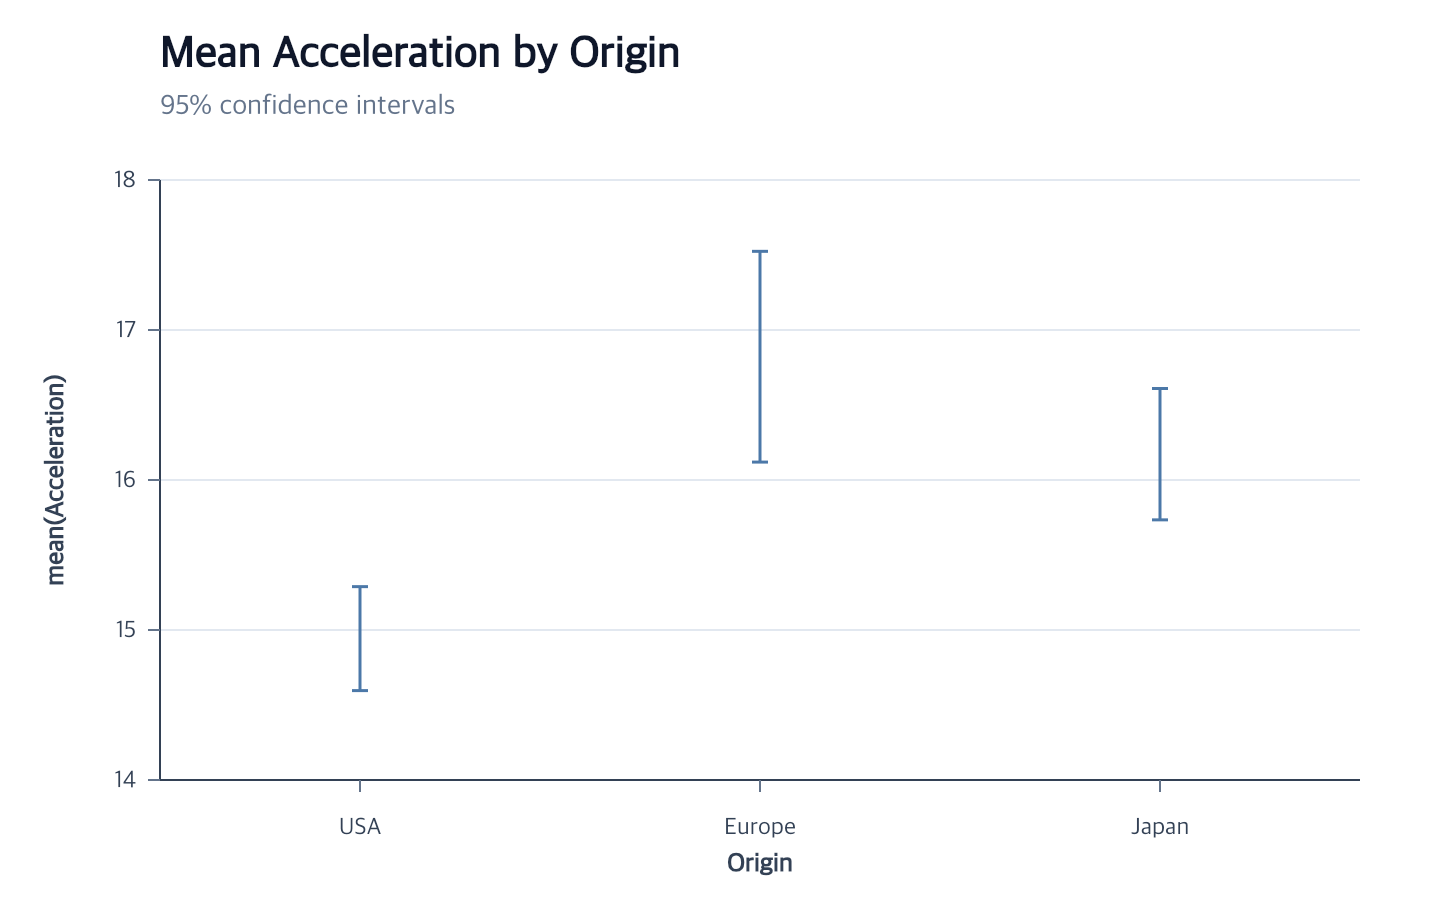
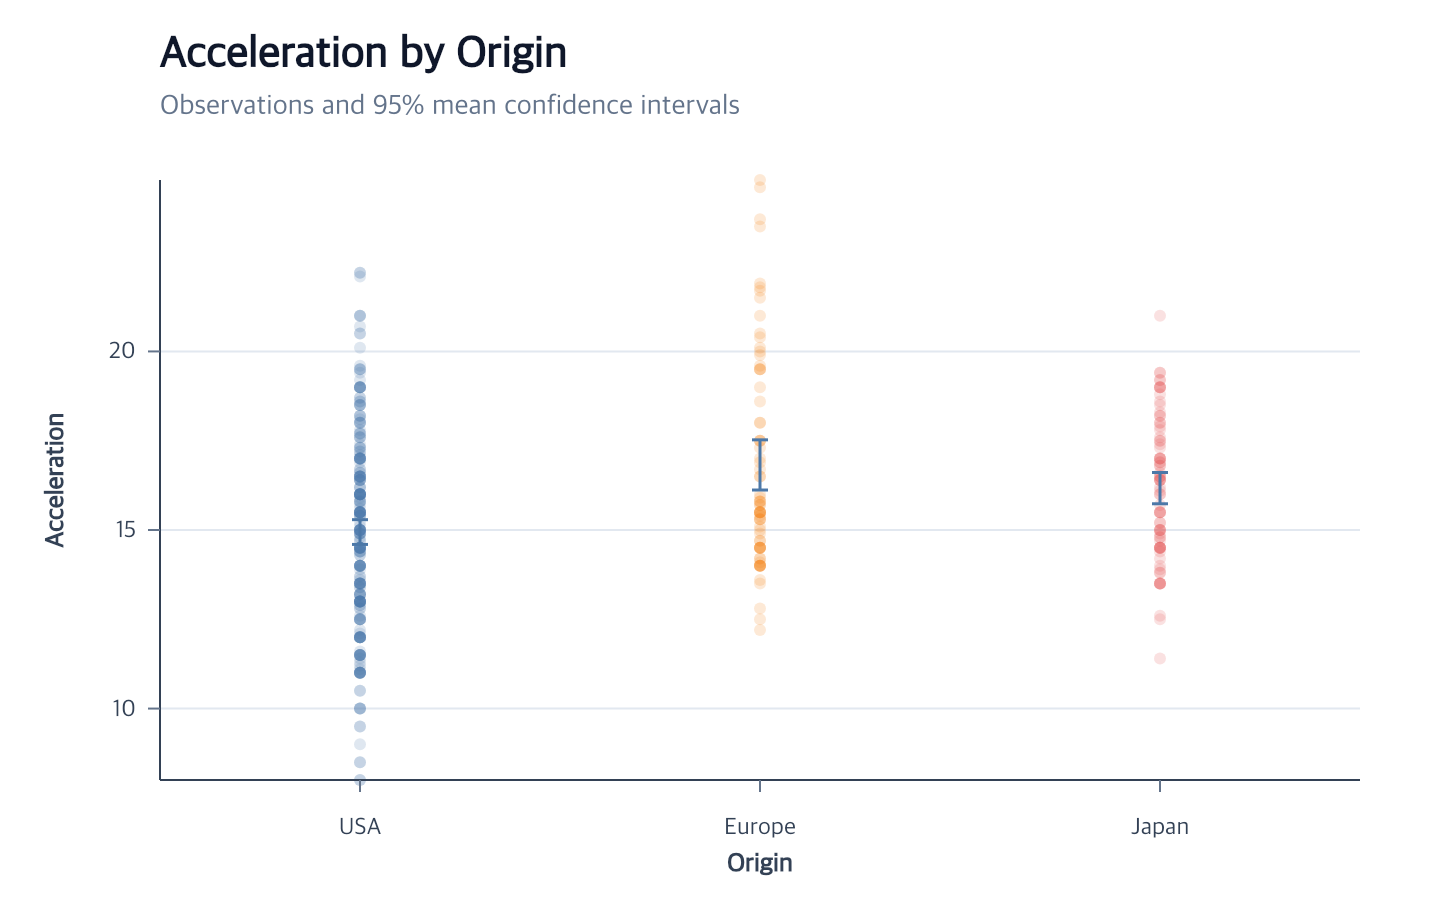
curate documentation gallery

diff --git a/examples/registry.js b/examples/registry.js
@@ -1,6 +1,6 @@
 import { createCarsBoxPlot } from "./cars-box-plot/program.js";
 import { createCarsDensityArea } from "./cars-density-area/program.js";
-import { createCarsErrorBar } from "./cars-error-bar/program.js";
+import { createCarsErrorBarOverlay } from "./cars-error-bar/program.js";
 import { createCarsHistogram } from "./cars-histogram/program.js";
 import { createCarsLineChart } from "./cars-line-chart/program.js";
 import { createCarsRegressionScatterplot } from
@@ -10,7 +10,8 @@ import { createMatchingPopulationColorBars } from
   "./gapminder-continuous-color-bars/program.js";
 import { createGapminderQuantizeColorScale } from
   "./gapminder-discretized-color-scales/program.js";
-import { createGapminderErrorBand } from "./gapminder-error-band/program.js";
+import { createGapminderCurvedBoundaryErrorBand } from
+  "./gapminder-error-band/program.js";
 import { createGapminderBandPointChart } from
   "./gapminder-temporal-discrete-scales/program.js";
 import { createGapminderTransformedScaleScatterplot } from
@@ -96,7 +97,7 @@ export const PUBLIC_CHARTS = Object.freeze([
     data: "cars",
     width: 720,
     height: 460,
-    createProgram: createCarsErrorBar,
+    createProgram: createCarsErrorBarOverlay,
     docsGroup: "charts",
     browser: { path: "cars-error-bar/", canvas: "#chart" }
   }),
@@ -114,7 +115,7 @@ export const PUBLIC_CHARTS = Object.freeze([
     data: "gapminder",
     width: 760,
     height: 480,
-    createProgram: createGapminderErrorBand,
+    createProgram: createGapminderCurvedBoundaryErrorBand,
     docsGroup: "charts",
     browser: { path: "gapminder-error-band/", canvas: "#chart" }
   }),

diff --git a/docs/assets/main.scss b/docs/assets/main.scss
@@ -444,6 +444,13 @@ summary:focus-visible {
   border-radius: 0.65rem;
 }
 
+.docs-chart-gallery article > p {
+  margin: 0;
+  color: var(--docs-muted);
+  font-size: 0.84rem;
+  line-height: 1.45;
+}
+
 .docs-chart-gallery article:focus-within,
 .docs-chart-gallery article:hover {
   border-color: #93c5fd;
@@ -457,27 +464,28 @@ summary:focus-visible {
   border-radius: 0.4rem;
 }
 
-.docs-chart-gallery__image::after {
-  position: absolute;
-  right: 0.45rem;
-  bottom: 0.45rem;
-  padding: 0.2rem 0.4rem;
-  color: #fff;
-  border-radius: 0.25rem;
-  background: rgba(15, 23, 42, 0.78);
-  content: "Full size";
-  font-size: 0.68rem;
-  opacity: 0;
-}
-
-.docs-chart-gallery__image:focus::after,
-.docs-chart-gallery__image:hover::after {
-  opacity: 1;
-}
-
 .docs-chart-gallery__title {
   color: #0f172a;
   font-weight: 600;
+}
+
+.docs-chart-gallery__actions {
+  display: flex;
+  flex-wrap: wrap;
+  gap: 0.3rem;
+}
+
+.docs-chart-gallery__actions code {
+  padding: 0.12rem 0.35rem;
+  border-radius: 999px;
+  font-size: 0.7rem;
+}
+
+.docs-chart-gallery__full-size {
+  align-self: flex-start;
+  margin-top: auto;
+  color: var(--docs-muted);
+  font-size: 0.76rem;
 }
 
 .docs-chart-gallery img {

diff --git a/examples/gapminder-error-band/main.js b/examples/gapminder-error-band/main.js
@@ -1,14 +1,14 @@
 import { render } from "../../src/index.js";
-import { createGapminderErrorBand } from "./program.js";
+import { createGapminderCurvedBoundaryErrorBand } from "./program.js";
 
 const response = await fetch("../../data/gapminder.json");
 if (!response.ok) {
   throw new Error(`Failed to load gapminder data: ${response.status}`);
 }
 const gapminder = await response.json();
-const program = createGapminderErrorBand(gapminder);
+const program = createGapminderCurvedBoundaryErrorBand(gapminder);
 
 const canvas = document.querySelector("#chart");
 render(program, canvas.getContext("2d"));
 document.querySelector("#status").textContent =
-  `Mean life expectancy and 95% confidence intervals from ${gapminder.length} rows`;
+  `Bounded 95% confidence intervals from ${gapminder.length} rows`;

diff --git a/examples/cars-error-bar/main.js b/examples/cars-error-bar/main.js
@@ -1,12 +1,12 @@
 import { render } from "../../src/index.js";
-import { createCarsErrorBar } from "./program.js";
+import { createCarsErrorBarOverlay } from "./program.js";
 
 const response = await fetch("../../data/cars.json");
 if (!response.ok) throw new Error(`Failed to load cars: ${response.status}`);
 const cars = await response.json();
-const program = createCarsErrorBar(cars);
+const program = createCarsErrorBarOverlay(cars);
 
 const canvas = document.querySelector("#chart");
 render(program, canvas.getContext("2d"));
 document.querySelector("#status").textContent =
-  `95% mean confidence intervals from ${cars.length} cars`;
+  `Observations and 95% mean confidence intervals from ${cars.length} cars`;

diff --git a/test/docs/documentation.test.js b/test/docs/documentation.test.js
@@ -192,11 +192,15 @@ test("keeps tutorial action flows aligned with public examples", () => {
       "return chart()"
     ],
     ["density-area", "examples/cars-density-area/program.js", "return chart()"],
-    ["error-bar", "examples/cars-error-bar/program.js", "return chart()"],
+    [
+      "error-bar",
+      "examples/cars-error-bar/program.js",
+      "export function createCarsErrorBarOverlay"
+    ],
     [
       "error-band",
       "examples/gapminder-error-band/program.js",
-      "return chart()"
+      "function createCurvedBoundaryErrorBand"
     ]
   ];
 

diff --git a/docs/index.md b/docs/index.md
@@ -30,62 +30,100 @@ The main, extension, and PNG entry points include TypeScript declarations.
   </a>
 </div>
 
-## Choose a chart
+## Core charts
+
+Start with a complete chart whose data relationship matches the question you
+want to answer.
 
 <div class="docs-chart-gallery">
   <article>
-    <a class="docs-chart-gallery__image" href="./assets/images/cars-scatterplot.png" aria-label="Open the full-size cars scatterplot">
+    <a class="docs-chart-gallery__image" href="./tutorials/scatterplot/" aria-label="Build the cars scatterplot">
       <img src="./assets/images/cars-scatterplot.png" alt="Cars scatterplot" width="1280" height="800" loading="eager" fetchpriority="high">
     </a>
     <a class="docs-chart-gallery__title" href="./tutorials/scatterplot/">Scatterplot</a>
+    <p>Compare two quantitative fields and encode a category with color.</p>
+    <span class="docs-chart-gallery__actions"><code>createPointMark</code> <code>encodeX</code> <code>encodeY</code></span>
+    <a class="docs-chart-gallery__full-size" href="./assets/images/cars-scatterplot.png">View full size</a>
   </article>
   <article>
-    <a class="docs-chart-gallery__image" href="./assets/images/cars-line-chart.png" aria-label="Open the full-size aggregate line chart">
+    <a class="docs-chart-gallery__image" href="./tutorials/line-chart/" aria-label="Build the aggregate line chart">
       <img src="./assets/images/cars-line-chart.png" alt="Cars aggregate line chart" width="1440" height="920" loading="lazy">
     </a>
     <a class="docs-chart-gallery__title" href="./tutorials/line-chart/">Line chart</a>
+    <p>Aggregate values over time and split the result into series.</p>
+    <span class="docs-chart-gallery__actions"><code>createLineMark</code> <code>encodeGroup</code></span>
+    <a class="docs-chart-gallery__full-size" href="./assets/images/cars-line-chart.png">View full size</a>
   </article>
   <article>
-    <a class="docs-chart-gallery__image" href="./assets/images/cars-histogram.png" aria-label="Open the full-size stacked histogram">
+    <a class="docs-chart-gallery__image" href="./tutorials/histogram/" aria-label="Build the stacked histogram">
       <img src="./assets/images/cars-histogram.png" alt="Cars stacked histogram" width="864" height="920" loading="lazy">
     </a>
     <a class="docs-chart-gallery__title" href="./tutorials/histogram/">Histogram</a>
+    <p>Bin a quantitative field and count category partitions.</p>
+    <span class="docs-chart-gallery__actions"><code>createBarMark</code> <code>encodeHistogram</code></span>
+    <a class="docs-chart-gallery__full-size" href="./assets/images/cars-histogram.png">View full size</a>
   </article>
   <article>
-    <a class="docs-chart-gallery__image" href="./assets/images/jobs-grouped-bar.png" aria-label="Open the full-size grouped bar chart">
+    <a class="docs-chart-gallery__image" href="./tutorials/grouped-bar/" aria-label="Build the grouped bar chart">
       <img src="./assets/images/jobs-grouped-bar.png" alt="Jobs grouped bar example" width="1440" height="920" loading="lazy">
     </a>
     <a class="docs-chart-gallery__title" href="./tutorials/grouped-bar/">Bar chart</a>
+    <p>Aggregate ordinal categories and arrange nominal groups side by side.</p>
+    <span class="docs-chart-gallery__actions"><code>createBarMark</code> <code>encodeColor</code></span>
+    <a class="docs-chart-gallery__full-size" href="./assets/images/jobs-grouped-bar.png">View full size</a>
   </article>
   <article>
-    <a class="docs-chart-gallery__image" href="./assets/images/cars-regression-scatterplot.png" aria-label="Open the full-size regression scatterplot">
-      <img src="./assets/images/cars-regression-scatterplot.png" alt="Cars regression scatterplot with confidence bands" width="1520" height="960" loading="lazy">
-    </a>
-    <a class="docs-chart-gallery__title" href="./tutorials/regression-scatterplot/">Regression scatterplot</a>
-  </article>
-  <article>
-    <a class="docs-chart-gallery__image" href="./assets/images/cars-density-area.png" aria-label="Open the full-size density area chart">
+    <a class="docs-chart-gallery__image" href="./tutorials/density-area/" aria-label="Build the density area chart">
       <img src="./assets/images/cars-density-area.png" alt="Cars density area chart" width="1440" height="1000" loading="lazy">
     </a>
     <a class="docs-chart-gallery__title" href="./tutorials/density-area/">Density area</a>
+    <p>Estimate grouped distributions and draw baseline-closed areas.</p>
+    <span class="docs-chart-gallery__actions"><code>createAreaMark</code> <code>encodeDensity</code></span>
+    <a class="docs-chart-gallery__full-size" href="./assets/images/cars-density-area.png">View full size</a>
+  </article>
+</div>
+
+## Statistical and layered charts
+
+These examples compose ordinary marks and derived data into higher-level
+statistical views.
+
+<div class="docs-chart-gallery docs-chart-gallery--secondary">
+  <article>
+    <a class="docs-chart-gallery__image" href="./tutorials/regression-scatterplot/" aria-label="Build the regression scatterplot">
+      <img src="./assets/images/cars-regression-scatterplot.png" alt="Cars regression scatterplot with confidence bands" width="1520" height="960" loading="lazy">
+    </a>
+    <a class="docs-chart-gallery__title" href="./tutorials/regression-scatterplot/">Regression scatterplot</a>
+    <p>Layer observations, grouped fits, and confidence bands.</p>
+    <span class="docs-chart-gallery__actions"><code>createRegression</code></span>
+    <a class="docs-chart-gallery__full-size" href="./assets/images/cars-regression-scatterplot.png">View full size</a>
   </article>
   <article>
-    <a class="docs-chart-gallery__image" href="./assets/images/cars-error-bar.png" aria-label="Open the full-size error-bar chart">
-      <img src="./assets/images/cars-error-bar.png" alt="Mean acceleration by origin with 95% confidence intervals" width="1440" height="920" loading="lazy">
+    <a class="docs-chart-gallery__image" href="./tutorials/error-bar/" aria-label="Build the error-bar overlay">
+      <img src="./assets/images/cars-error-bar.png" alt="Car observations with grouped mean confidence intervals" width="1440" height="920" loading="lazy">
     </a>
     <a class="docs-chart-gallery__title" href="./tutorials/error-bar/">Error bar</a>
+    <p>Keep observations visible while summarizing group uncertainty.</p>
+    <span class="docs-chart-gallery__actions"><code>createErrorBar</code></span>
+    <a class="docs-chart-gallery__full-size" href="./assets/images/cars-error-bar.png">View full size</a>
   </article>
   <article>
-    <a class="docs-chart-gallery__image" href="./assets/images/cars-box-plot.png" aria-label="Open the full-size box plot">
+    <a class="docs-chart-gallery__image" href="./api/box-plots/" aria-label="Learn how to build the box plot">
       <img src="./assets/images/cars-box-plot.png" alt="Fuel economy distribution by origin as a Tukey box plot" width="720" height="920" loading="lazy">
     </a>
     <a class="docs-chart-gallery__title" href="./api/box-plots/">Box plot</a>
+    <p>Compose quartiles, whiskers, medians, and outlier points.</p>
+    <span class="docs-chart-gallery__actions"><code>createBoxPlot</code></span>
+    <a class="docs-chart-gallery__full-size" href="./assets/images/cars-box-plot.png">View full size</a>
   </article>
   <article>
-    <a class="docs-chart-gallery__image" href="./assets/images/gapminder-error-band.png" aria-label="Open the full-size error-band chart">
-      <img src="./assets/images/gapminder-error-band.png" alt="Mean life expectancy by cluster with 95% confidence bands" width="1520" height="960" loading="lazy">
+    <a class="docs-chart-gallery__image" href="./tutorials/error-band/" aria-label="Build the bounded error-band chart">
+      <img src="./assets/images/gapminder-error-band.png" alt="Mean life expectancy by cluster with bounded confidence bands" width="1520" height="960" loading="lazy">
     </a>
     <a class="docs-chart-gallery__title" href="./tutorials/error-band/">Error band</a>
+    <p>Show interval ribbons with explicit lower and upper boundaries.</p>
+    <span class="docs-chart-gallery__actions"><code>createErrorBand</code></span>
+    <a class="docs-chart-gallery__full-size" href="./assets/images/gapminder-error-band.png">View full size</a>
   </article>
 </div>
 

diff --git a/docs/tutorials/error-bar.md b/docs/tutorials/error-bar.md
@@ -5,11 +5,12 @@ title: Error-Bar Chart Tutorial
 
 # Error-Bar Chart Tutorial
 
-![Mean acceleration by origin with 95% confidence intervals](../assets/images/cars-error-bar.png)
+![Car observations with grouped mean confidence intervals](../assets/images/cars-error-bar.png)
 
-This chart summarizes car acceleration by Origin. `createErrorBar` derives one
-mean and two-sided 95% Student-t confidence interval per group, then creates
-concrete vertical rules and fixed-width caps. The source rows remain immutable.
+This chart keeps individual car observations visible while summarizing
+acceleration by Origin. `createErrorBar()` infers the encoded point layer,
+derives one mean and two-sided 95% Student-t confidence interval per group,
+then creates concrete vertical rules and fixed-width caps. The source rows remain immutable.
 The repository contains a
 [runnable browser example](https://github.com/hj-n/ggaction/tree/main/examples/cars-error-bar)
 and its [complete program](https://github.com/hj-n/ggaction/blob/main/examples/cars-error-bar/program.js).
@@ -28,14 +29,17 @@ const program = chart()
     margin: { top: 90, right: 40, bottom: 70, left: 80 }
   })
   .createData({ values: cars })
-  .createErrorBar({
-    x: { field: "Origin", fieldType: "nominal" },
-    y: { field: "Acceleration" }
-  })
+  .createPointMark()
+  .encodeX({ field: "Origin", fieldType: "ordinal" })
+  .encodeY({ field: "Acceleration" })
+  .encodeColor({ field: "Origin" })
+  .encodeRadius({ value: 3 })
+  .encodeOpacity({ value: 0.18 })
+  .createErrorBar()
   .createGuides()
   .createTitle({
-    text: "Mean Acceleration by Origin",
-    subtitle: "95% confidence intervals"
+    text: "Acceleration by Origin",
+    subtitle: "Observations and 95% mean confidence intervals"
   });
 
 render(program, document.querySelector("#chart").getContext("2d"));
@@ -45,13 +49,13 @@ render(program, document.querySelector("#chart").getContext("2d"));
 
 | Stage | Semantic result | Graphical result |
 | --- | --- | --- |
+| Point encodings | One observation layer grouped by Origin | Translucent colored observations |
 | `createErrorBar` | Immutable grouped interval rows and three rule layers | Main intervals and two 8px caps per Origin |
 | `createGuides` | Ordinal x, quantitative y, axes, horizontal grid | Grid behind rules and axes above them |
 | `createTitle` | Title and subtitle | Plot-aligned text above the chart |
 
 The first dataset ID, error-bar ID, source, coordinate, grouping, statistic,
-and appearance are all inferred. The explicit x and y fields are the only
-decisions needed when no encoded source layer exists.
+and interval appearance are inferred from the encoded point layer.
 
 ## Add intervals to an existing layer
 

diff --git a/docs/tutorials/error-band.md b/docs/tutorials/error-band.md
@@ -5,11 +5,12 @@ title: Error-Band Chart Tutorial
 
 # Error-Band Chart Tutorial
 
-![Mean life expectancy by cluster with 95% confidence bands](../assets/images/gapminder-error-band.png)
+![Mean life expectancy by cluster with bounded confidence bands](../assets/images/gapminder-error-band.png)
 
 This chart summarizes life expectancy over time for each Gapminder cluster.
 `createErrorBand` derives one mean and two-sided 95% Student-t confidence
-interval per year and cluster, then creates one closed area path per cluster.
+interval per year and cluster, then creates one closed area path plus explicit
+lower and upper boundary paths per cluster.
 The repository contains a
 [runnable browser example](https://github.com/hj-n/ggaction/tree/main/examples/gapminder-error-band)
 and its [complete program](https://github.com/hj-n/ggaction/blob/main/examples/gapminder-error-band/program.js).
@@ -31,7 +32,14 @@ const program = chart()
   .createErrorBand({
     x: { field: "year", fieldType: "temporal" },
     y: { field: "life_expect" },
-    groupBy: "cluster"
+    groupBy: "cluster",
+    curve: "cardinal",
+    boundaries: {
+      stroke: "#25364d",
+      strokeWidth: 1.4,
+      strokeDash: [6, 3],
+      opacity: 0.8
+    }
   })
   .encodeColor({
     target: "errorBand",
@@ -52,7 +60,7 @@ render(program, document.querySelector("#chart").getContext("2d"));
 
 | Stage | Semantic result | Graphical result |
 | --- | --- | --- |
-| `createErrorBand` | Immutable year × cluster interval rows and one area layer | Six closed confidence-band paths |
+| `createErrorBand` | Immutable year × cluster interval rows, one area layer, and boundary layers | Six closed bands with explicit lower and upper paths |
 | `encodeColor` | Shared nominal cluster scale | One fill per cluster |
 | `createGuides` | Temporal x, quantitative y, axes, horizontal grid, legend | Grid behind bands and guides above them |
 | `createTitle` | Title and subtitle | Plot-aligned text above the chart |
